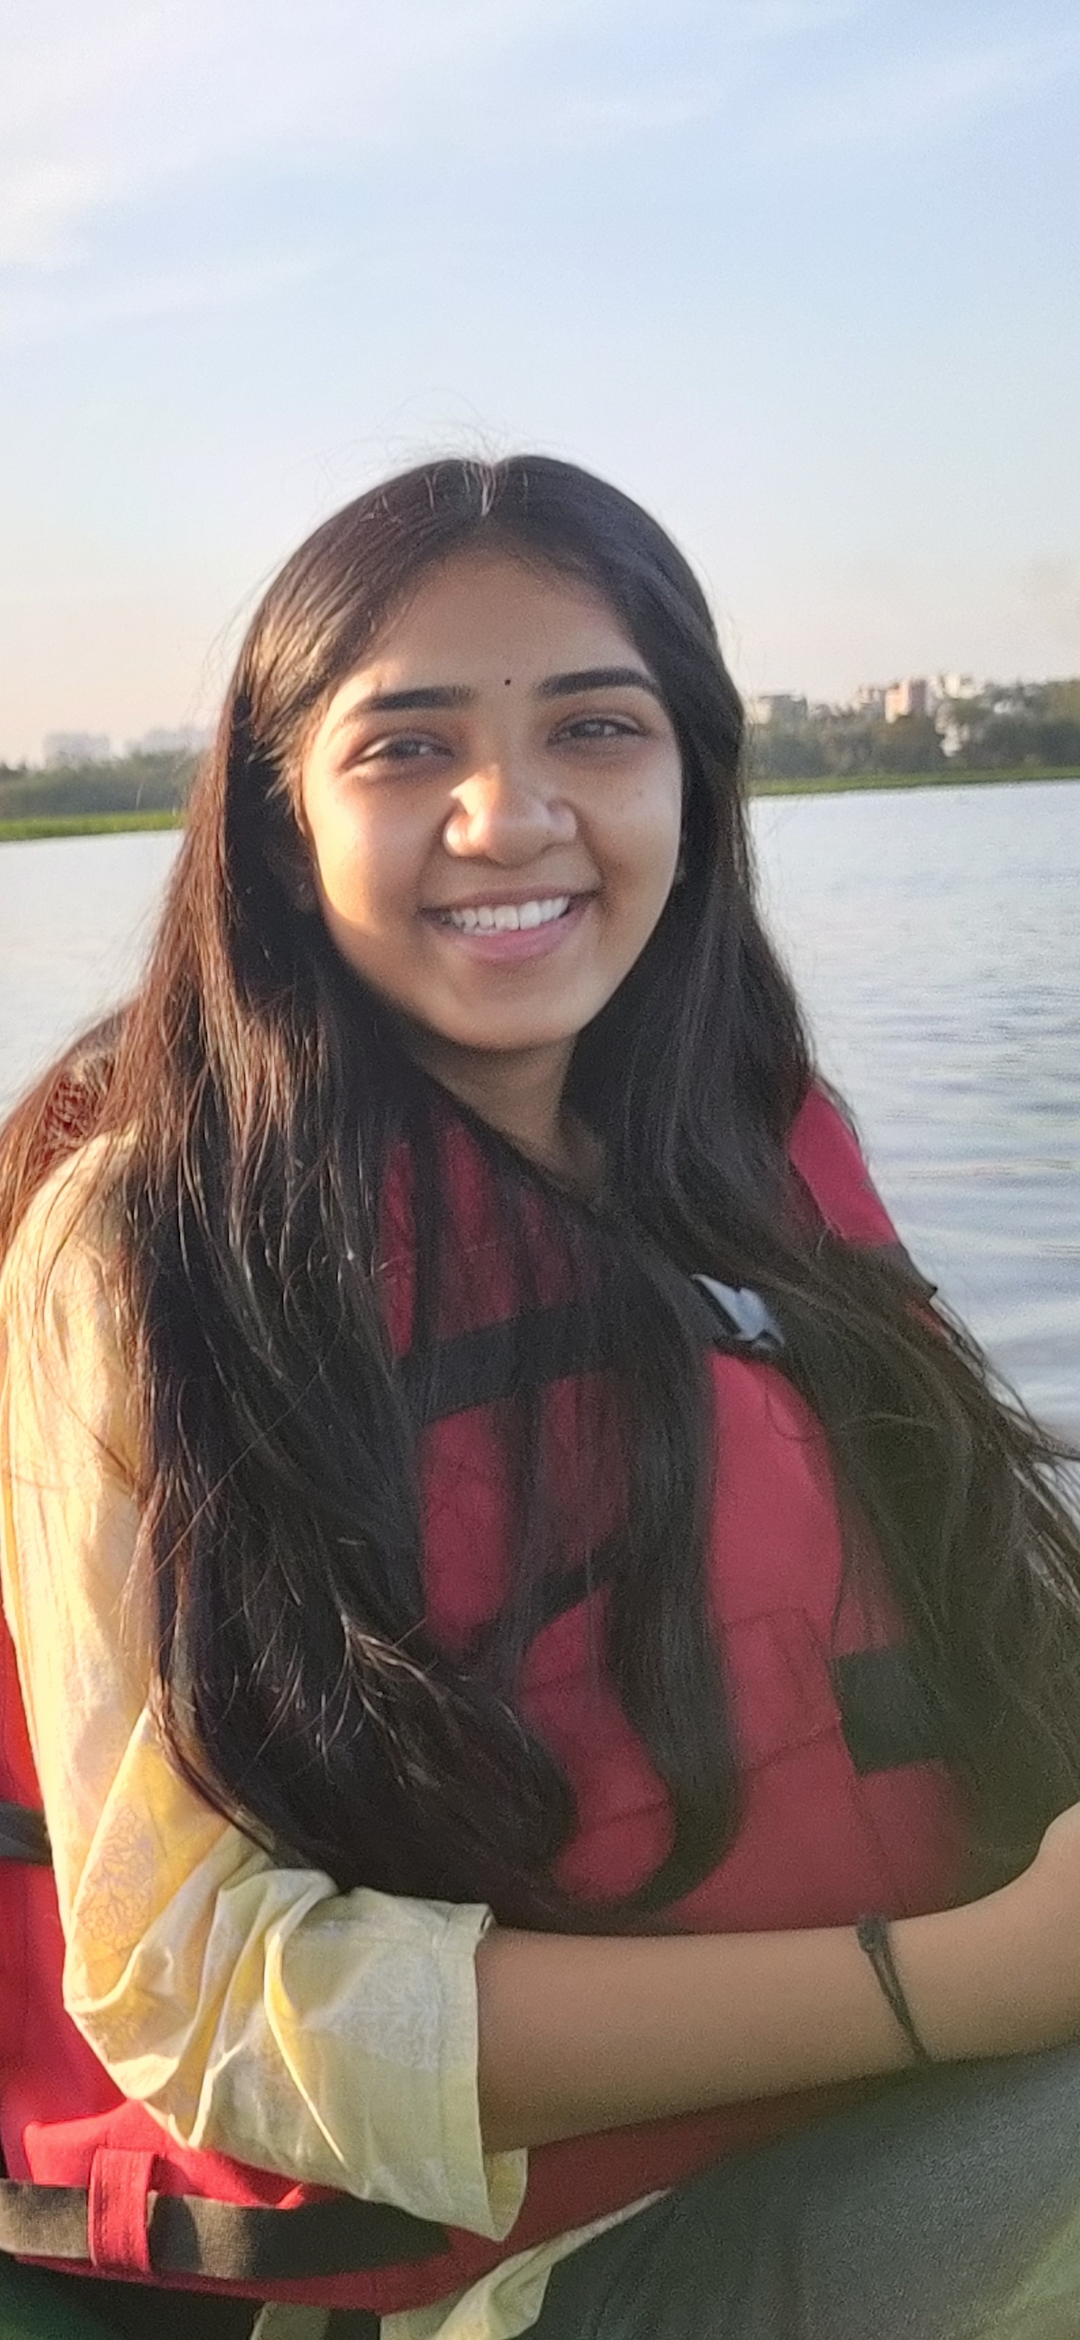
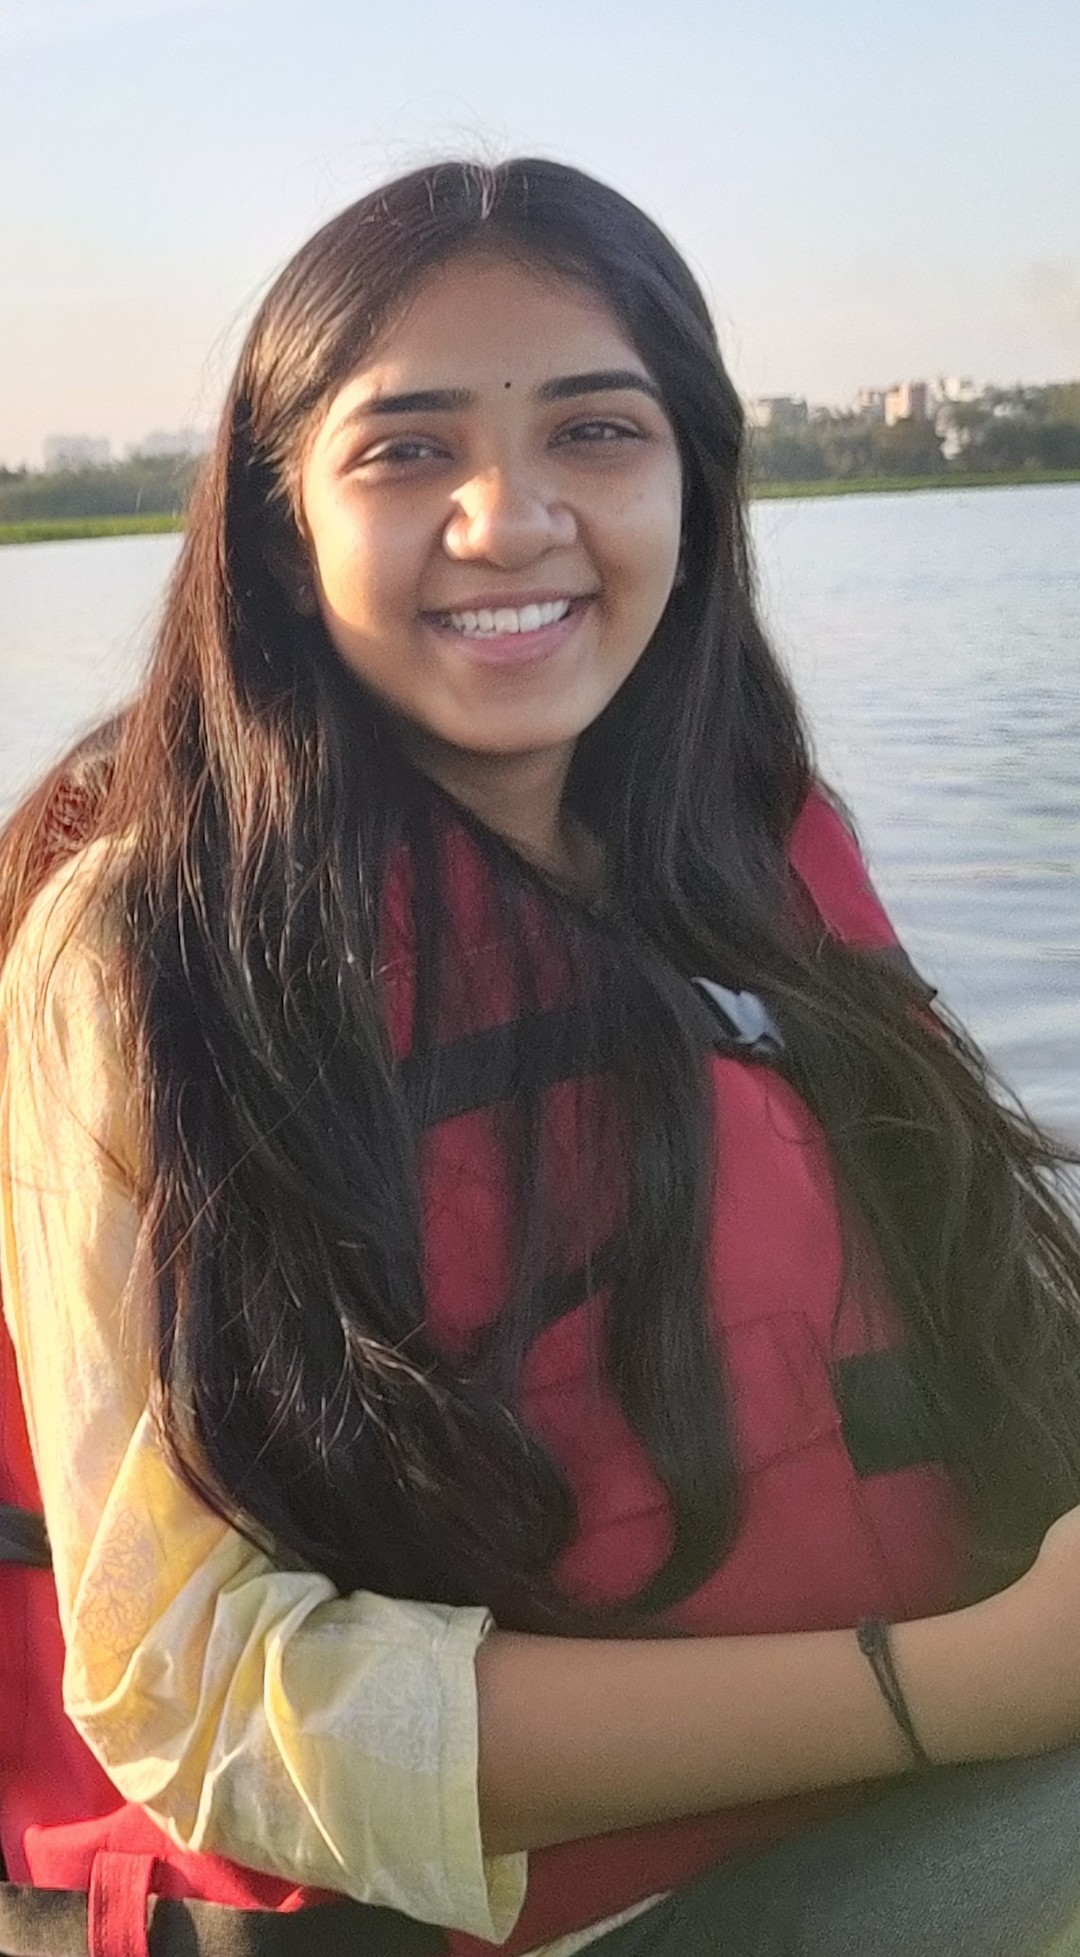
final changes

diff --git a/file/default.css b/file/default.css
@@ -53,12 +53,11 @@
             text-align: center; */
 
             width: 90%;
-            max-width: 272px;
-            height: 680px;
-            left: 188px;
+            max-width: 320px;
+            height: 600px;
             top: 80px;
             position: absolute;
-            left: 29%;
+            left: 33%;
             top: 50%;
             transform: translate(-50%, -50%);
             z-index: 10
@@ -66,21 +65,20 @@
         }
 
         #code {
-      display: none;
-      color: rgb(196, 255, 255);
-      font-size: 16px;
-      margin-top: 55px;
-      line-height: 25px;
-      font-size: larger;
-      font-weight: bolder;
+            display: none;
+            color: rgb(196, 255, 255);
+            font-size: 16px;
+            margin-top: 45px;
+            line-height: 25px;
+            font-size: larger;
+            font-weight: bolder;
         }
 
         #code img {
             width: 100%;
             max-width: 170px;
             height: auto;
-            border-radius: 8px;
-            margin-bottom: 15px;
+            border-radius: 12px;
         }
 
         #clock-box {
@@ -112,7 +110,7 @@
             width: 100%;
             height: 100%;
             max-width: 1100px;
-            max-height: 680px;
+            max-height: 780px;
             display: block;
             position: relative;
             background-color: #000;
@@ -131,7 +129,7 @@
         }
 
         .say {
-            margin: 10px 0;
+            margin: 5px 0;
         }
 
         /* Mobile Styles */
@@ -158,7 +156,7 @@
 
             #code img {
                 max-width: 140px;
-                margin-bottom: 10px;
+                margin-bottom: 5px;
             }
 
             #clock-box {
@@ -167,7 +165,7 @@
             }
 
             canvas {
-                max-height: 500px;
+                max-height: 720px;
             }
         }
 

diff --git a/index.html b/index.html
@@ -30,9 +30,9 @@
         <div id="wrap">
             <div id="text">
                 <div id="code">
-                    <span class="say"><img src="ruchika.jpg" alt="Ruchika" width="240" height="420"></span><br>
+                    <span class="say"><img src="sarre2.jpg" alt="Ruchika" ></span><br>
                     <span class="say">Happy Birthday, Ruchika 🎈💖</span><br>
-                    <span class="say">May God wrap you in endless blessings, happiness and love-today and always 🍀💕</span><br>
+                    <span class="say">May God wrap you in endless blessings, happiness and love-today and always 💕</span><br>
                     <span class="say">You’re incredibly special. Your warmth, joy, and light make you truly unique ❤ </span><br>
                     <span class="say">You’re not just amazing—you’re one of a kind 🍀</span><br>
                     <span class="say">I hope today is filled with smiles, laughter, and everything your beautiful heart deserves 💖</span><br>
